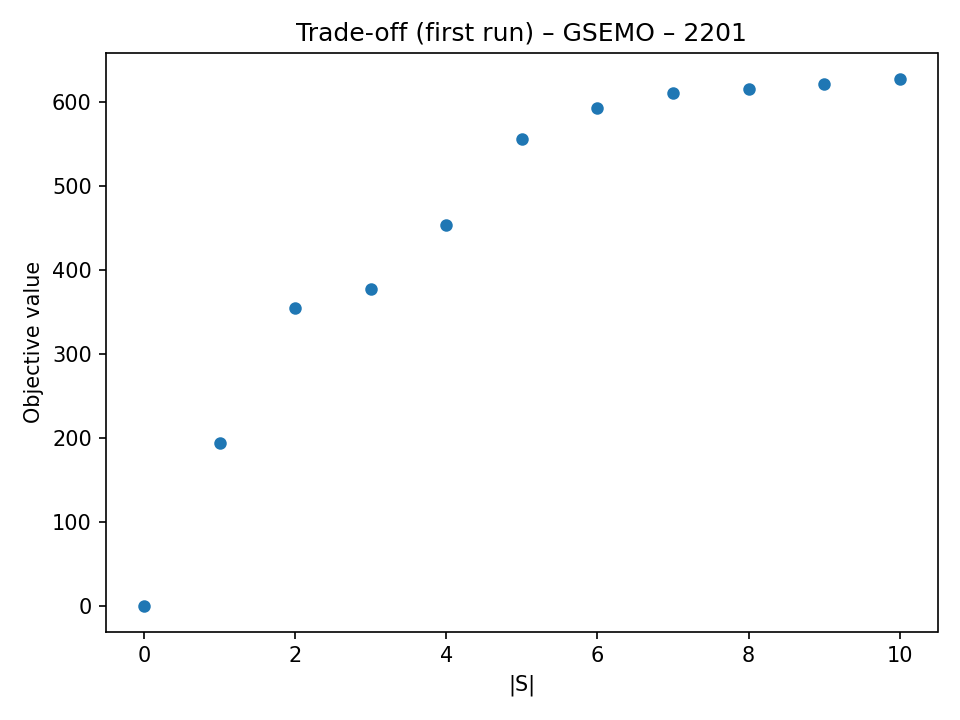
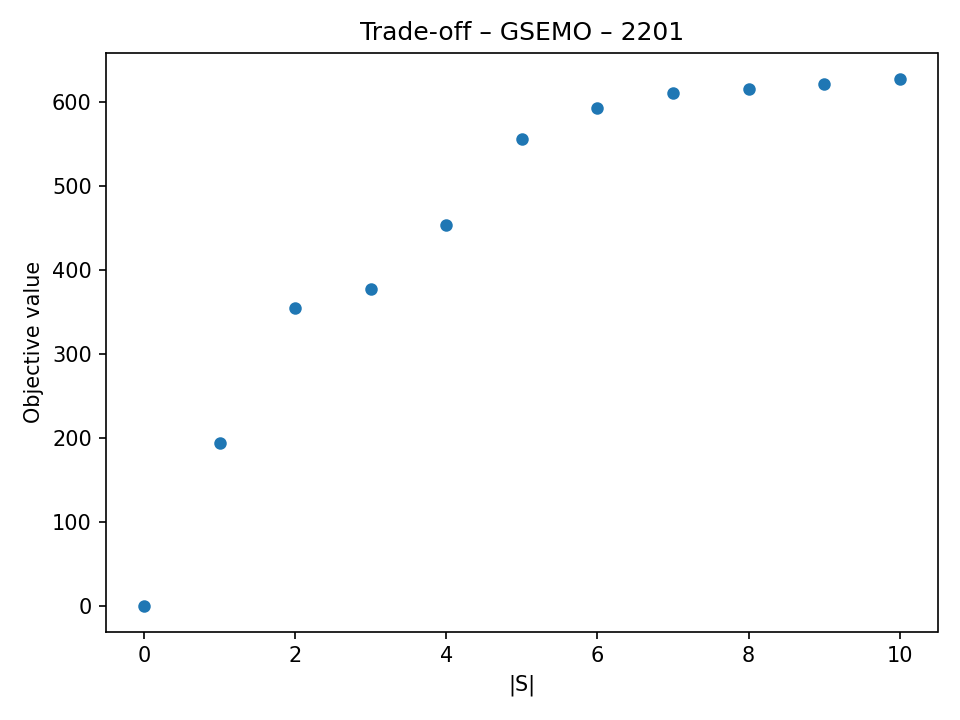
done

Changed region(s): [[0.3125, 0.0306, 0.7812, 0.0611]]

diff --git a/Exercise_2/Exercise_2.py b/Exercise_2/Exercise_2.py
@@ -1,19 +1,3 @@
-# Exercise_2.py
-# Single-file Exercise 2:
-# - Implements GSEMO (multi-objective, Week 8)
-# - Runs all required instances with IOH logging
-# - Saves EVERYTHING under Exercise_2/results/
-# - Optional plotting of trade-off (first-run) scatter from saved pareto.json
-#
-# Usage:
-#   pip install ioh numpy matplotlib
-#   # Run experiments only:
-#   python Exercise_2.py --runs 30 --budget 10000
-#   # Run + also make trade-off plots for all instances:
-#   python Exercise_2.py --runs 30 --budget 10000 --plot
-#   # Only plot (assuming results/ already exists from a previous run):
-#   python Exercise_2.py --plot-only
-
 import argparse
 import json
 import os
@@ -28,34 +12,26 @@ PROBLEM_IDS = {
     "pwt":       [2300, 2301, 2302],
 }
 
+# Default parameters for runs & budget
 RUNS_DEFAULT = 30
 BUDGET_DEFAULT = 10_000
 SEED_BASE = 42
 
+# Directories for results and plots
 THIS_DIR = os.path.dirname(os.path.abspath(__file__))
 RESULTS_ROOT = os.path.join(THIS_DIR, "results")
 PLOTS_DIR = os.path.join(RESULTS_ROOT, "plots", "tradeoffs")
 
+# dominance check for 2D objectives 
 def _dominates(a: Tuple[float, float], b: Tuple[float, float]) -> bool:
-    """Pareto dominance for 'maximize both' objectives."""
     return all(ai >= bi for ai, bi in zip(a, b)) and any(ai > bi for ai, bi in zip(a, b))
 
-
+# this is the GSEMO implementation from lectures
+# with minor adjustments for our bi-objective setting
 def gsemo(problem, budget: int, rng: np.random.Generator, k: int = None):
-    """
-    GSEMO for (mono)tone submodular optimisation (Week 8 formulation).
-
-    - If k is not None (MaxCoverage/MaxInfluence): objectives = (z(x), -|S|)
-      with z(x) = f(x) if |S| <= k else -1 (infeasible sentinel).
-    - If k is None (PWT): objectives = (f(x), -|S|).
-
-    Returns:
-      best_x: np.ndarray (binary solution)
-      best_f: (f1, f2)
-      pareto: list of (x, (f1,f2)) nondominated points discovered
-    """
     n = problem.meta_data.n_variables
 
+    # bi-objective (f(x), -|x|)
     if k is None:
         def obj(x: np.ndarray) -> Tuple[float, float]:
             fx = float(problem(x))
@@ -74,12 +50,13 @@ def gsemo(problem, budget: int, rng: np.random.Generator, k: int = None):
     P.append((x0, obj(x0)))
     evals = 2
 
+    # this is the main loop of GSEMO
     while evals < budget:
         pidx = rng.integers(len(P))
         parent = P[pidx][0]
 
         flips = rng.random(n) < (1.0 / n)
-        if not flips.any():
+        if not flips.any(): # this ensures at least one bit flip
             flips[rng.integers(n)] = True
 
         child = parent.copy()
@@ -89,29 +66,25 @@ def gsemo(problem, budget: int, rng: np.random.Generator, k: int = None):
         evals += 1
 
         keep, dominated_flag = [], False
-        for (z, fz) in P:
-            if _dominates(fchild, fz):
+        for (z, fz) in P: # these lines of code maintain the Pareto set
+            if _dominates(fchild, fz):# this checks if fchild dominates fz
                 continue
-            if _dominates(fz, fchild):
+            if _dominates(fz, fchild):# this checks if fz dominates fchild 
                 dominated_flag = True
             keep.append((z, fz))
-        if not dominated_flag:
+        if not dominated_flag: # only add child if its not dominated
             keep.append((child, fchild))
         P = keep
 
     best = max(P, key=lambda t: t[1][0])
     return best[0], best[1], P
 
+# helper function to load a problem instance
 def get_problem(problem_id: int):
-    """Load GRAPH-class problem instance from IOH."""
     return ioh.get_problem(problem_id, problem_class=ioh.ProblemClass.GRAPH)
 
-
+# these lines of code set up logging with IOH Analyzer
 def make_logger(algo_name: str, problem_id: int, run_id: int):
-    """
-    Create IOH Analyzer logger writing under Exercise_2/results/.
-    (Do not pass 'suite_name' – not in current API.)
-    """
     outdir = os.path.join(RESULTS_ROOT, algo_name, str(problem_id), f"run_{run_id}")
     os.makedirs(outdir, exist_ok=True)
     return ioh.logger.Analyzer(
@@ -129,9 +102,8 @@ def attach_logger(problem, logger):
 def seeded_rng(seed: int):
     return np.random.default_rng(seed)
 
-
+# helper function to dump Pareto front to JSON
 def dump_pareto(pareto, outpath: str):
-    """Save Pareto set (for run 0) as JSON for later plotting/analysis."""
     os.makedirs(os.path.dirname(outpath), exist_ok=True)
     data = []
     for x, f in pareto:
@@ -144,9 +116,8 @@ def dump_pareto(pareto, outpath: str):
     with open(outpath, "w") as fh:
         json.dump(data, fh, indent=2)
 
-
+# these lines of code are the helper function to detect uniform cardinality k from problem metadata
 def detect_k(problem) -> int:
-    """Infer uniform cardinality k from metadata; fallback to 10."""
     meta = getattr(problem, "meta_data", None)
     info = getattr(meta, "info", {}) or {}
     for key in ("k", "budget", "constraint_k", "cardinality"):
@@ -157,12 +128,8 @@ def detect_k(problem) -> int:
                 pass
     return 10
 
+# these lines of code run groups of experiments
 def run_group(problem_ids: List[int], runs: int, budget: int, use_k: bool):
-    """
-    Run GSEMO on a list of problem IDs.
-    - use_k=True  -> Coverage & Influence (uniform constraint)
-    - use_k=False -> PWT (no k)
-    """
     for pid in problem_ids:
         for r in range(runs):
             rng = seeded_rng(SEED_BASE + 2000 * r + pid)
@@ -176,24 +143,22 @@ def run_group(problem_ids: List[int], runs: int, budget: int, use_k: bool):
                 k = detect_k(problem) if use_k else None
                 _, _, pareto = gsemo(problem, budget, rng, k=k)
 
-                if r == 0:
+                if r == 0: # if r == 0, it saves the Pareto front to JSON
                     out = os.path.join(RESULTS_ROOT, algo_tag, str(pid), f"run_{r}", "pareto.json")
                     dump_pareto(pareto, out)
 
             finally:
                 problem.detach_logger()
 
-
+# these lines of code run all experiments for Exercise 2 
 def run_experiments(runs: int, budget: int):
     run_group(PROBLEM_IDS["coverage"], runs, budget, use_k=True)
     run_group(PROBLEM_IDS["influence"], runs, budget, use_k=True)
     run_group(PROBLEM_IDS["pwt"], runs, budget, use_k=False)
 
+# These plots the trade-off scatter from saved pareto.json files and saves as PNG
 def plot_tradeoff_for(algo_tag: str, problem_id: int, run_index: int = 0):
-    """
-    Create a trade-off (|S| vs objective value) scatter from pareto.json
-    and save under Exercise_2/results/plots/tradeoffs/.
-    """
+
     try:
         import matplotlib.pyplot as plt
     except Exception as e:
@@ -218,18 +183,14 @@ def plot_tradeoff_for(algo_tag: str, problem_id: int, run_index: int = 0):
     plt.scatter(xs, ys, s=25)
     plt.xlabel("|S|")
     plt.ylabel("Objective value")
-    plt.title(f"Trade-off (first run) – {algo_tag} – {problem_id}")
+    plt.title(f"Trade-off – {algo_tag} – {problem_id}")
     plt.tight_layout()
     plt.savefig(out_png, dpi=150)
     plt.close()
 
-    print(f"✅ Saved trade-off plot: {out_png}")
-
-
+# these lines of code plot trade-offs for all instances
 def plot_all_tradeoffs():
-    """
-    Generate trade-off plots (first run) for all required instances, if pareto.json exists.
-    """
+
     for pid in PROBLEM_IDS["coverage"]:
         plot_tradeoff_for("GSEMO", pid, 0)
     for pid in PROBLEM_IDS["influence"]:
@@ -249,10 +210,8 @@ if __name__ == "__main__":
 
     if not args.plot_only:
         run_experiments(args.runs, args.budget)
-        print(f"\n✅ Experiments complete. All logs & pareto.json saved under:\n   {RESULTS_ROOT}\n")
 
     if args.plot or args.plot_only:
         plot_all_tradeoffs()
-        print(f"\n📊 Plots (if generated) saved under:\n   {PLOTS_DIR}\n")
 
     print("Done.")
